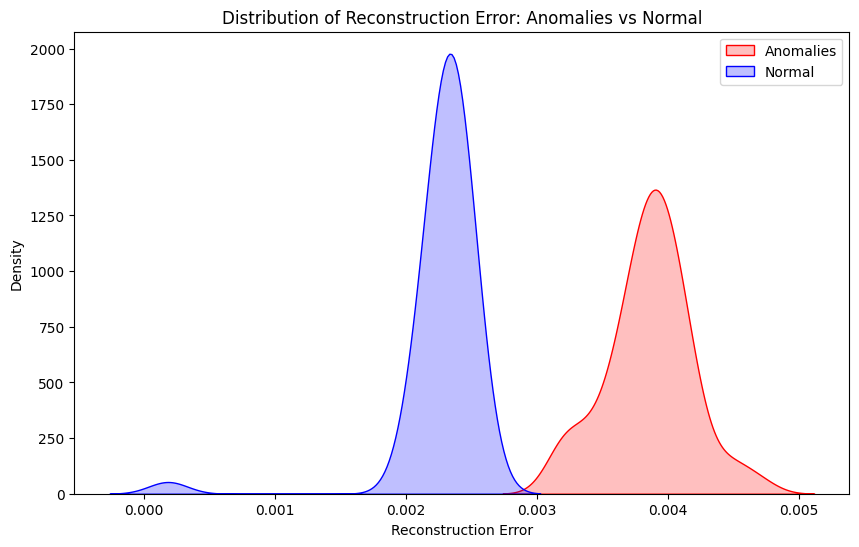
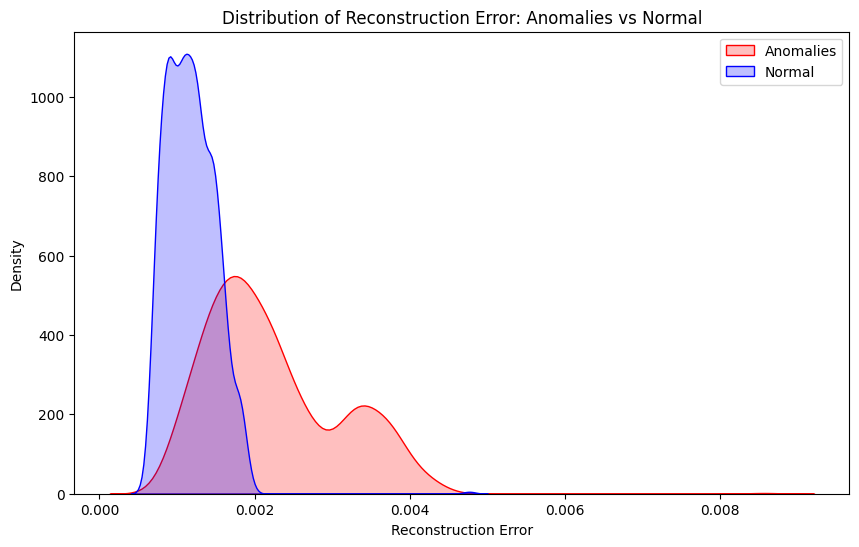
Update article and move images to proper folder

diff --git a/main.py b/main.py
@@ -38,7 +38,7 @@ optimizer = torch.optim.Adam(model.parameters(), lr=0.01)
 
 logging.info('Training start!')
 
-training_outputs, trained_model = training_loop(epochs=10, data_loader=data_loaders, model=model, criterion=criterion, optimizer=optimizer)
+training_outputs, trained_model = training_loop(epochs=15, data_loader=data_loaders, model=model, criterion=criterion, optimizer=optimizer)
 predictions = eval_loop(model=trained_model, data_loader=data_loaders)
 anomaly_predictions = eval_loop(model=trained_model, data_loader=data_loaders_anomaly)
 latent_space_predictions = eval_loop(model=trained_model, data_loader=data_loaders, latent_space=True)

diff --git a/article.md b/article.md
@@ -46,7 +46,7 @@ The kernel density is good when you don't have data you can fit to a normal prob
 
 Basically, the process creates a mini-probability distribution for every data point, and then sums them all together at the end to get a better view of the distribution of the data. 
 
-![alt text](./article_imgs/image-7.png)
+![alt text](./article_imgs/image-kernel-density.png)
 
 Height, is a hyperparameter of the KDE that you can tune and set in the kernel density formula. It determines how narrow and high the probability distribution peak will be at each data point. 
 
@@ -62,13 +62,13 @@ I was interested in this methodology and saw that some people had succeeded with
 ## Dataset Generation --> Introducing Anomalies Detection Using Autoencoders
 I used the https://github.com/google-deepmind/dsprites-dataset and manipulated the sprites to have different background colors so that we can also see how this method works in images with more than just one channel, as previous articles tend to work with only black and white images and most video game assets will have 3 channels. 
 
-![alt text](image-1.png)
+![alt text](./article_imgs/image-1.png)
 
-![alt text](image-2.png)
+![alt text](./article_imgs/image-2.png)
 
 This set became my ground truth of images, and from there I injected different randomly sized and different colored elipses into the images as potential "anomalies". 
 
-![alt text](image-3.png)
+![alt text](./article_imgs/image-3.png)
 
 
 ## Preparing the data 
@@ -214,7 +214,7 @@ Next we set up our model and the criterion (or loss function) and optimizer. I a
 
 The Adam Optimizer is an extension of stochastic gradient descent. Where the learning rate adjusts during training to each parameter. It is good for problems with multiple local minimum or maximums. 
 
-***"A learning rate is maintained for each network weight (parameter) and separately adapted as learning unfolds."***
+[***"A learning rate is maintained for each network weight (parameter) and separately adapted as learning unfolds."***](https://machinelearningmastery.com/adam-optimization-algorithm-for-deep-learning/)
 
 It keeps track of the average & squared average of the gradients to change the learning rate.
 The average learning rate tells you the consistent direction of the gradient while the average squared gradient tells you how volatile the gradients have been. The more volatile, the smaller the learning rate and the more stable the higher the learning rate. Sometimes, it's referred to as an exponential moving average because, when calculating the average, the Adam optimizer gives more weight to recent gradients and less weight to older gradients (how much will depend on a parameter called a decay). If you're interested in deep diving into the adam optimizer, I've linked a great article in the references! 
@@ -282,11 +282,11 @@ You can see here that the reconstruction error is larger for the anomoulous data
 
 And the autoencoder struggles to reconstruct the part of the image that holds the anomaly and just  makes it a slightly darker shade of the original image background:
 
-![alt text](image-5.png)
+![alt text](./article_imgs/image-5.png)
 
 However, without the anomaly the color of the anomaly is not able to be reconstructed well even though the shape exists: 
 
-![alt text](image-6.png)
+![alt text](./article_imgs/image-6.png)
 
 the image is reconstructed well. 
 
@@ -295,11 +295,11 @@ Using this you can set a threshold on the reconstruction error to detect which i
 
 And when we look at the distribution of the reconstruction errors of the base images versus the images with an anomolous object set: 
 
-![alt text](image-8.png)
+![alt text](./article_imgs/image-8.png)
 
 There is a clear distinction between the distribution of reconstruction errors for the anomalous images versus the regular images. However, there is still a noticable overlap  with a couple hundred of anomolous images having a reconstruction less than 0.004, however, the overwhelming majority of images that contain an anomaly have an error over 0.004 making it a useful threshold. 
 
-So, I can set a threshold using 0.0004 or the average reconstruction error of the anomalous set, and then add an ```error_interval``` which can be a hyperparameter to tune. You can see that for the anomaly detection, we get a very good classification rate. 
+So, I can set a threshold using 0.0004 or the average reconstruction error of the anomalous set, and then add an ```error_interval``` which can be a hyperparameter to tune. You can see that for the anomaly detection, we get a very good classification rate for true positives. You still get quite a high number of false positives because you can see there is still an overlap below 0.002 where the reconstruction error is the same for both anomalies and normal images. A more complex auto-encoder might be able to allow for a more finite separation.
 
 ```
 true positives 951
@@ -313,20 +313,25 @@ However, it's interesting that the kernel densities unlike hypothesized, the dis
 
 For example, you can see that the distribution of the pixel values between the original and the anomalous image, after undergoing transformation is extremely similar. Take this image. 
 
-![alt text](image-3.png)
+![alt text](./article_imgs/image-3.png)
 
 
 Which has quite a large anomaly on the image. 
 
-![alt text](image-7.png)
-
 Then if you take the kde plot of these values, the distributions almost overlap entirely. Meaning that the kernel density estimation will be very similar. Because similar input distributions result in similar kde estimation resulting in a similar kde score. So while there is slight variation, the kernal density estimation is not useful in this scenario. 
 
-![alt text](image-9.png)
+![alt text](./article_imgs/image-7.png)
+
+And this is illuminated if you plot out the kde scores of the latent space images, the densities almost overlap entirely. It makes sense because the latent space takes the most important information from the original distribution and tries to re-represent the image in a lower dimensional space. So if the distributions are relatively similar going it, the latent space might produce a similar representation for the anomalous image. 
+
+![alt text](./article_imgs/image-9.png)
+
+This is useful to know that the kde is not optimal for all types of anomaly detection. The key takeaway is that even with a small anomaly added, we can use the reconstruction error to determine if an image is anomalous or not. And with an even more complex model, we might be able to do this more accurately. 
 
 If you'd like to try out this code for yourself checkout my github! 
 
 
 # Bibliography 
 - kernel density estimation: https://blogs.sas.com/content/iml/2016/07/27/visualize-kernel-density-estimate.html
-- pytorch Conv2D: https://docs.pytorch.org/docs/stable/generated/torch.nn.Conv2d.html
+- pytorch Conv2D: https://docs.pytorch.org/docs/stable/generated/torch.nn.Conv2d.
+- 
